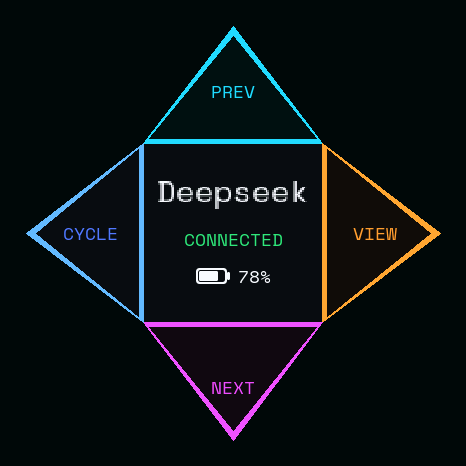
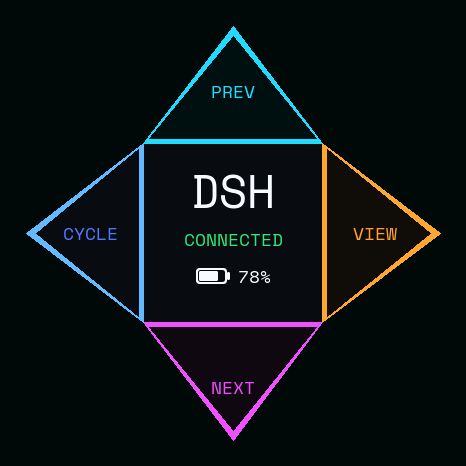
chore: rename DeepSeek page to DSH and update README titles

Changed region(s): [[0.3305, 0.3605, 0.6609, 0.4506]]

diff --git a/simulator/super_workspace_ui_test.cpp b/simulator/super_workspace_ui_test.cpp
@@ -136,7 +136,7 @@ void testPendingProfilesShowPromptWithoutLosingConnectionOrBattery() {
     auto has = [&](const char* text) {
       return std::find(surface.texts.begin(), surface.texts.end(), text) != surface.texts.end();
     };
-    const char* title = profile == Profile::Deepseek ? "DeepSeek"
+    const char* title = profile == Profile::Deepseek ? "DSH"
         : profile == Profile::Hermes ? "HERMES" : "SUPER";
     assert(has(title) && has(item.second) && has("CONNECTED") && has("100%"));
     for (const auto& draw : surface.textDraws) {
@@ -285,7 +285,7 @@ void testDeepseekSharesFourDirectionalControls() {
   auto has = [&](const char* text) {
     return std::find(surface.texts.begin(), surface.texts.end(), text) != surface.texts.end();
   };
-  assert(has("DeepSeek") && !has("Deepseek") && !has("DEEPSEEK"));
+  assert(has("DSH") && !has("DeepSeek") && !has("Deepseek") && !has("DEEPSEEK"));
   assert(has("CYCLE") && has("OFFLINE") && has("--%"));
   assert(has("PREV") && has("NEXT") && has("VIEW"));
   assert(!has("TAB") && !has("OPEN"));
@@ -320,12 +320,9 @@ void testTitlesShareFontAndFitMeasuredInterior() {
       assert(title.x - title.width / 2 >= 144);
       assert(title.x + (title.width + 1) / 2 <= 322);
       if (profile == Profile::Deepseek) {
-        assert(title.text == "DeepSeek" && title.text.size() == 8);
-        assert(title.size < 1.0f && title.size > 0.7f);
-        assert(title.width >= 168);
-      } else {
-        assert(title.size == 1.0f);
+        assert(title.text == "DSH" && title.text.size() == 3);
       }
+      assert(title.size == 1.0f);
       assert(!surface.fontLoaded);
     }
   }

diff --git a/include/SuperWorkspaceUi.h b/include/SuperWorkspaceUi.h
@@ -197,7 +197,7 @@ void drawCenterPanel(Surface& surface, const State& state) {
                    kCenterFill);
 
   const bool pending = state.hermesPresentation != HermesPresentation::Active;
-  const char* title = state.profile == Profile::Deepseek ? "DeepSeek"
+  const char* title = state.profile == Profile::Deepseek ? "DSH"
       : state.profile == Profile::Hermes ? "HERMES" : kTitle;
   // All titles use the same font asset. Measure at the preferred size before
   // shrinking longer names to the 178px interior; never stretch shorter names.

diff --git a/README.md b/README.md
@@ -1,4 +1,4 @@
-# Stopwatch AgentBezel C152
+# StopWatch AgentBezel based on M5Stack C152 StopWatch Dev Kit（ESP32-S3R8）
 
 [简体中文](README.zh-CN.md)
 
@@ -19,22 +19,22 @@ Companion build14 unifies foreground handling for all four Agent pages. Left
 selects a page without activating a background app. A foreground target is ready
 immediately; a missing or background target waits for a center tap to launch or
 activate and reopen a closed last window. Mac foreground changes preserve the selected page. This Companion-only
-update uses the existing build9 five-screen firmware. Deepseek, SUPER and Hermes
+update uses the existing build9 five-screen firmware. DSH, SUPER and Hermes
 check for an actual application window; closing the last window returns to
 **TAP TO OPEN** on the next one-second check. A slow reopen automatically becomes
 operational when its real foreground window is ready, including after a timeout.
 See the
 [control diagnosis and acceptance record](docs/CONTROL_AVAILABILITY.zh-CN.md).
 
-- Five screens: robot Home → Codex / ChatGPT → Deepseek → SUPER → HERMES → Home.
+- Five screens: robot Home → Codex / ChatGPT → DSH → SUPER → HERMES → Home.
 - Home: four robot portraits without decorative boundary rings; up/down/right
   still select characters. Center tap blinks the selected character's eyes three
   times, without speech, talking animation, haptics or Mac input. Repeated taps
   during the sequence do not restart it or queue another sequence.
-- Deepseek: the same four-triangle layout as SUPER. Up/down navigate existing
+- DSH: the same four-triangle layout as SUPER. Up/down navigate existing
   threads in sidebar order across project boundaries; right switches Chat /
   Trajectory. Requires the optional navigation plugin; center and physical
-  action buttons remain disabled when active. The title is exactly `DeepSeek`
+  action buttons remain disabled when active. The title is exactly `DSH`
   using the same font as SUPER/HERMES, fitted within the center panel.
 - When a harness is not running, left selects its waiting page without launching;
   center explicitly launches/retries. Opening rejects repeated taps. Existing
@@ -87,10 +87,10 @@ JPEG assets. They are not film frames, official logos, or network-fetched media.
 Leaving Home resets the next visit to Bumblebee.
 
 <table>
-  <tr><th>Codex Micro</th><th>Deepseek</th><th>super.engineering</th><th>Hermes Desktop</th></tr>
+  <tr><th>Codex Micro</th><th>DSH</th><th>super.engineering</th><th>Hermes Desktop</th></tr>
   <tr>
     <td width="25%"><img src="artifacts/dashboard-preview-v2-round.png" alt="Codex Micro dashboard with six controls, quota and battery"></td>
-    <td width="25%"><img src="artifacts/deepseek-workspace-preview.png" alt="Deepseek with CYCLE, PREV, NEXT and VIEW"></td>
+    <td width="25%"><img src="artifacts/deepseek-workspace-preview.png" alt="DSH with CYCLE, PREV, NEXT and VIEW"></td>
     <td width="25%"><img src="artifacts/super-workspace-preview.png" alt="SUPER with four colored triangles and no separate center border"></td>
     <td width="25%"><img src="artifacts/hermes-workspace-preview.png" alt="HERMES with CYCLE, PREV, NEXT and OPEN controls"></td>
   </tr>
@@ -98,18 +98,18 @@ Leaving Home resets the next visit to Bumblebee.
 
 These are native framebuffer design previews, not hardware photographs.
 
-**Swipe left to cycle: Home → Codex / ChatGPT → Deepseek → SUPER → HERMES → Home.**
+**Swipe left to cycle: Home → Codex / ChatGPT → DSH → SUPER → HERMES → Home.**
 The current Codex / ChatGPT entry uses `com.openai.codex`; it is one target,
 not two. Left selects Codex; if absent, only center launches it. A foreground target is ready immediately; a running background target
 waits for a center tap to activate. Returning Home leaves the Mac unchanged. Missing or rejected
 targets show their waiting/error page; center retries, left continues the cycle. The former “return to previous
 app” behavior is replaced by this fixed cycle.
 
-| Input | Robot Home | Codex Micro | Deepseek | SUPER | HERMES |
+| Input | Robot Home | Codex Micro | DSH | SUPER | HERMES |
 | --- | --- | --- | --- | --- | --- |
 | Left physical / right physical | No action¹ | Push to talk / Voice Chat | No action¹ | No action¹ | No action¹ |
 | Center tap | Three silent blinks | Launch/retry when waiting; Send when active | Launch/retry when waiting; no action when active | Launch/retry when waiting; no action when active | Launch/retry when waiting; no action when active |
-| Swipe left | Select Codex | Select DeepSeek | Select SUPER | Select HERMES | Enter Home |
+| Swipe left | Select Codex | Select DSH | Select SUPER | Select HERMES | Enter Home |
 | Swipe up | Optimus / back to Bumblebee | Existing app mapping | Previous thread | Previous project | Browse previous session |
 | Swipe down | Megatron / back to Bumblebee | Existing app mapping | Next thread | Next project | Browse next session |
 | Swipe right | Starscream / back to Bumblebee | Existing app mapping | Chat / Trajectory | Next session Tab | Open owned selection; otherwise no action |
@@ -150,8 +150,8 @@ experimental until that checklist is complete.
 
 ## DeepSeek Harness workspace
 
-The **Deepseek** page uses the exact app bundle `com.deepseek.dsh`, not a browser
-URL or CLI. Left from Codex selects it; left from Deepseek selects SUPER.
+The **DSH** page uses the exact app bundle `com.deepseek.dsh`, not a browser
+URL or CLI. Left from Codex selects it; left from DSH selects SUPER.
 The CYCLE / PREV / NEXT / VIEW triangles share SUPER's geometry and palette.
 Up/down select the previous/next existing thread in sidebar order, continuing
 across project boundaries; right switches the main Chat / Trajectory view.
@@ -323,7 +323,7 @@ Choose the intended experience before building:
 
 | Experience | Firmware | What you get |
 | --- | --- | --- |
-| Five-screen AgentBezel described above | Explicitly choose `pio run -d usb-mic` + matching source-built Companion | Robot Home blinking, Codex, Deepseek, SUPER, HERMES, input-only USB microphone |
+| Five-screen AgentBezel described above | Explicitly choose `pio run -d usb-mic` + matching source-built Companion | Robot Home blinking, Codex, DSH, SUPER, HERMES, input-only USB microphone |
 | Basic Codex-only compatibility | `pio run -e m5stack-stopwatch` | Codex dashboard and BLE controls, Mac-selected microphone; no multi-screen Home/selector |
 
 The following prompt **explicitly selects the five-screen USB-mic variant**.
@@ -334,7 +334,7 @@ serial port, and paste this into Codex:
 ```text
 Install the five-screen AgentBezel experience on my M5Stack StopWatch Dev Kit C152.
 I choose the isolated USB-mic firmware and matching Companion, including Home,
-Codex, Deepseek, SUPER and HERMES. Home taps blink silently.
+Codex, DSH, SUPER and HERMES. Home taps blink silently.
 
 Read AGENTS.md and README.md completely before acting. Work through the setup
 autonomously, but follow these safety rules:

diff --git a/docs/DEEPSEEK_BLINK.md b/docs/DEEPSEEK_BLINK.md
@@ -1,5 +1,17 @@
 # Five workspaces and silent Home blinking
 
+## DSH display label (2026-10-12)
+
+The DeepSeek Harness page now displays `DSH` in active, idle, opening and error
+states. It uses the existing SpaceMono46 font at its normal size within the same
+center panel. The `deepseek` protocol mode, `com.deepseek.dsh` application bundle,
+plugin bindings and navigation behavior are unchanged. Both README titles and
+page labels, plus the public native-rendered preview, are synchronized.
+
+Validation covers the existing native UI regression and headless framebuffer
+previews. This label update has not been flashed or physically accepted. The
+`DeepSeek` title and scaling notes below describe earlier versions.
+
 ## Build9 installed acceptance and SUPER windowless follow-up
 
 Build9 and matching USB-mic application firmware were installed with separate
